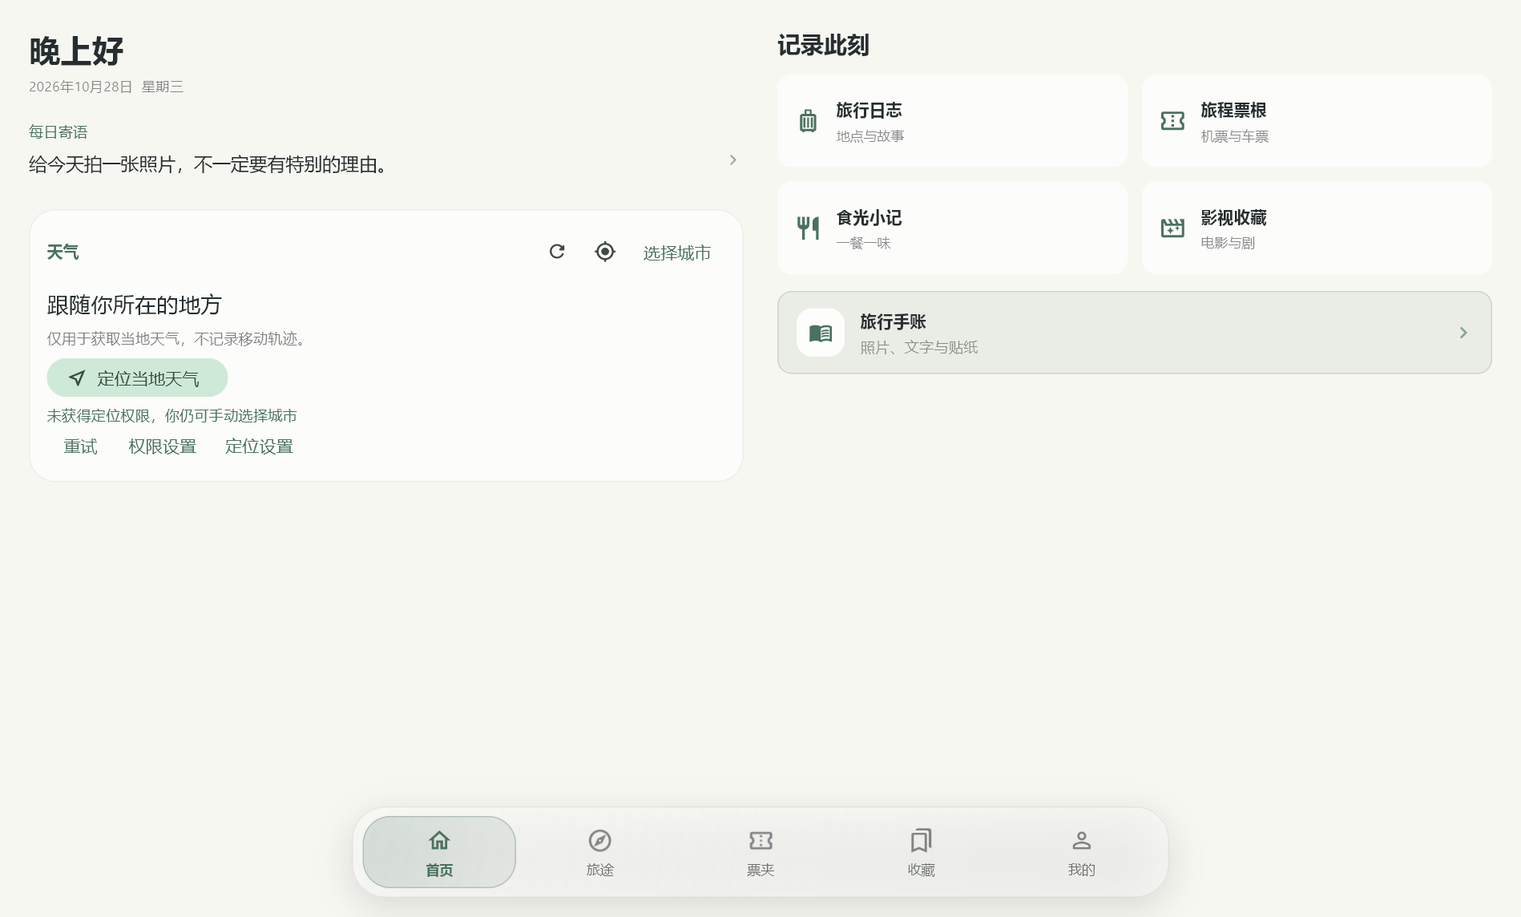
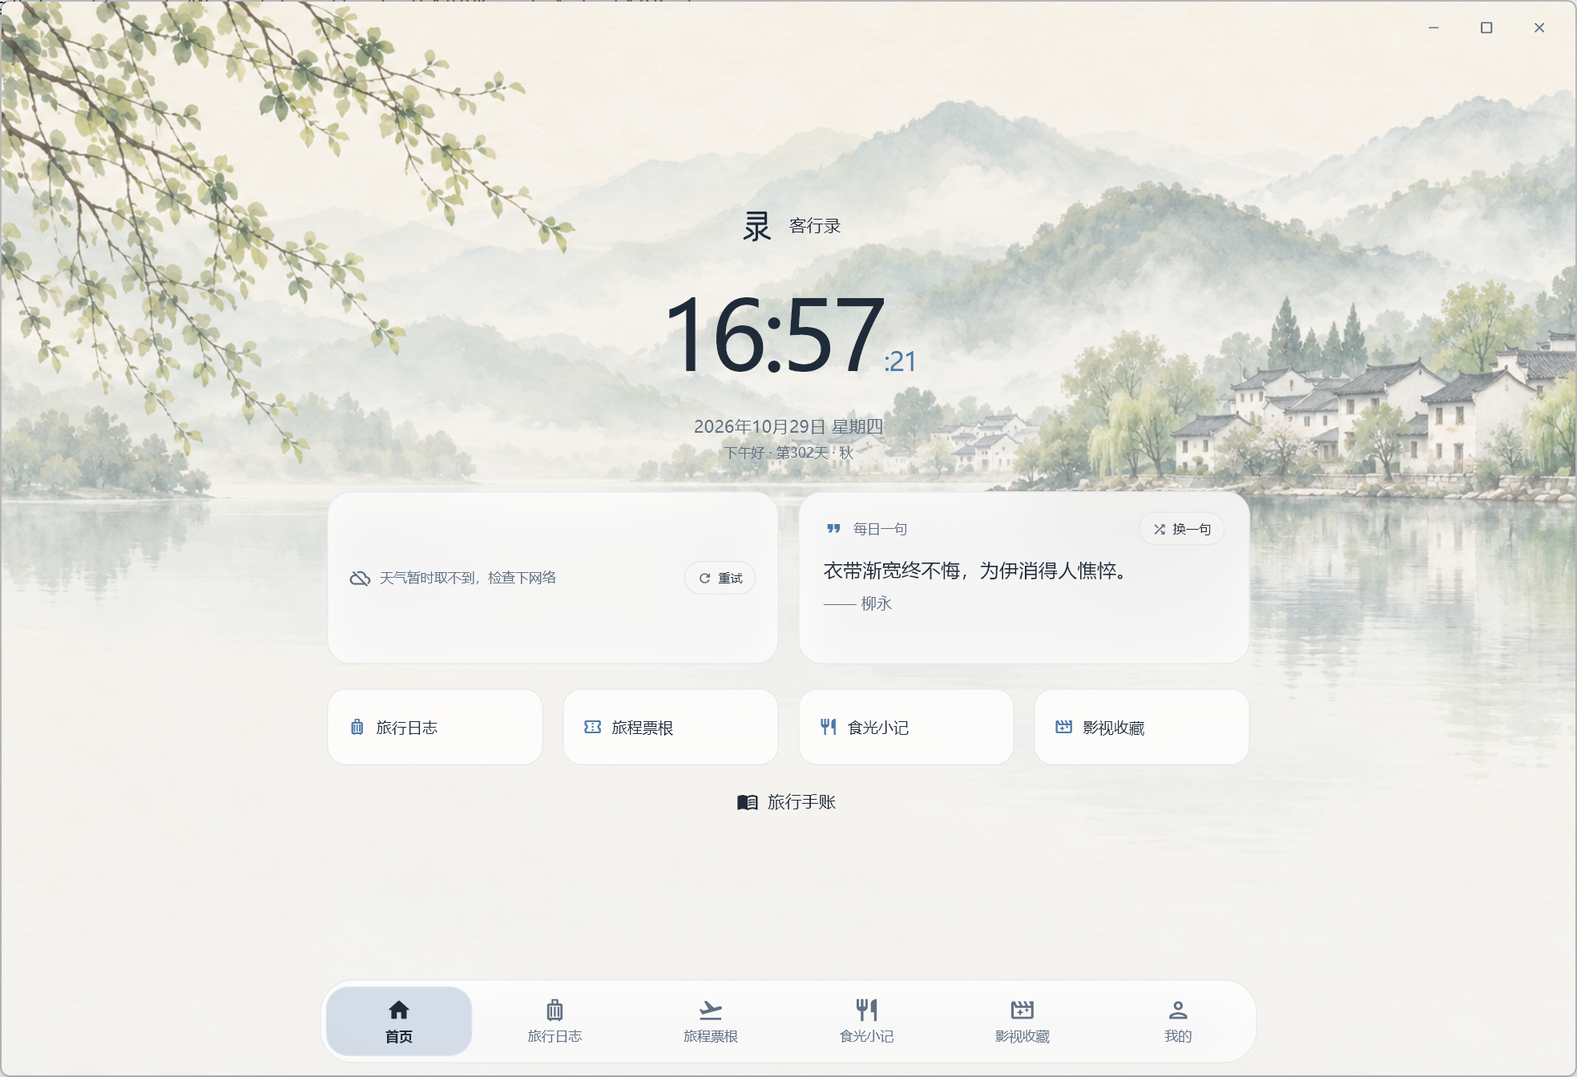
Restore original Windows desktop as the supported release

diff --git a/README.md b/README.md
@@ -1,87 +1,45 @@
-<div align="center">
-<img src="assets/app.png" width="88" alt="Waylore 客行录" />
-
 # Waylore · 客行录
 
-**把旅途与日常，收进自己的故事里。**
+把旅途与日常，收进自己的故事里。
 
-本地优先的旅行与生活记录应用，面向 Windows、Android 手机与安卓平板。记录旅行、收藏票根、排一本手帐，也留下喜欢的一餐与一部电影。
+[English](README.en.md) · [下载安装包](https://github.com/changanhe/Waylore/releases/tag/v1.0.0) · [支持开发](docs/SUPPORT.md)
 
-[English](README.en.md) · [安装与数据说明](docs/UNIFIED-RELEASE.md) · [支持开发](docs/SUPPORT.md)
+## Windows：保留原来的桌面界面
 
-</div>
+Windows 正式版已恢复为原来的 Python / Flet 客户端：山水背景、大时钟、六项底部导航，以及原有旅行日志、票根、食光、影视和手帐布局。后续以这套界面为基础做局部优化，不用手机布局替代桌面设计。版本保持 **1.0.0**。
 
-## 一套界面，陪你在不同设备上记录
+![Windows 原有桌面界面](docs/screenshots/windows-home.png)
 
-新版 Windows、手机与安卓平板复用 `mobile/` 中的 Flutter 界面。公开版本名均为 **1.0.0**；安卓使用内部构建号区分更新，升级请覆盖安装。
+Windows 源码入口是根目录 `main.py`，打包使用 `build.py` 和 `build_installer.py`。`mobile/windows/` 保留为未采用的实验实现，不是当前正式 Windows 版本。
 
-- **旅行与照片**：按地点、日期保存旅途，在离线矢量地图上回看足迹。地图为纪念性示意，不用于实际导航。
-- **机票与铁路票根**：收藏票根、翻看正反面、查看起终点轨迹；铁路票根背面默认显示“人民铁路为人民”。票根不是实际乘车或登机凭证。
-- **旅行手帐**：文字、照片、38款原创图形素材与快捷符号自由排版，12种纸张，平滑、折页、书页、淡入四种翻页效果；横屏编辑使用侧边工具栏。
-- **旅途配乐**：12首内置离线器乐，支持导入不超过50MB的MP3。按每条旅行记录、每本手帐保存选择，打开时自动播放；悬浮唱片展开进度、音量、循环与换曲。
-- **食光与影视**：记录一餐一味、海报、最多三位主演、评分和感悟。新收藏默认5分，在线影视资料仍需核对。
-- **每日寄语与生日**：首页简短寄语按日期轮换；常见中国及国际节日提供问候。生日当天开屏祝福每次打开呈现，首页彩带在同一设备、同一账号当天出现一次。
-- **你的阅读习惯**：主题、个人背景、系统默认字体、书页宋体与霞鹜文楷；保留减少动态效果选项。
-- **可选账号与同步**：本机功能不强制登录。账号和同步按配置提供，个人记录不会因为切换界面语言而翻译。
+## 安卓手机与安卓平板
 
-## 电脑与平板界面
+安卓继续使用 `mobile/` 下的 Flutter 客户端，版本 **1.0.0**、内部构建45。支持旅行与照片、影视与食光、旅行手帐、38款原创图形素材、12种纸张、四种翻页效果、12首内置配乐及MP3导入、悬浮唱片、每日寄语和生日祝福。平板支持双栏、横竖屏和横屏手帐工具栏。
 
-以下为 Windows 本机与安卓平板模拟器中的实际界面，使用测试数据。
+以上安卓功能不表示已经全部移植到 Windows。两个客户端分别保持适合各自设备的布局。
 
-![Windows home](docs/screenshots/windows-home.png)
+![安卓平板](docs/screenshots/tablet-home.png)
 
-![Tablet home](docs/screenshots/tablet-home.png)
+## 下载与数据
 
-![Travel map](docs/screenshots/tablet-travel.png)
+- [Windows 安装包](https://github.com/changanhe/Waylore/releases/download/v1.0.0/Kexinglu-Setup-1.0.0.exe)：Windows 10 / 11 x64，原版桌面界面，无需另外安装Python。
+- [安卓手机／平板安装包](https://github.com/changanhe/Waylore/releases/download/v1.0.0/Kexinglu-Android-1.0.0.apk)：Android 7及以上，覆盖安装即可更新。
+- 发布页附有SHA-256校验文件。此前采用手机布局的Windows便携包已撤下。
 
-![Landscape notebook](docs/screenshots/tablet-notebook-editor.png)
+原版Windows继续使用原有数据目录，通常位于 `%LOCALAPPDATA%/客行录` 或用户自选位置。退出应用后覆盖安装到原安装位置，不要先卸载或清除数据。若在此前实验Windows界面新增过记录，请先在该界面导出备份；实验版 `%LOCALAPPDATA%/Waylore` 中的数据不会自动并入原版，也不会在此次恢复中删除。
 
-## 下载与安装
+更多说明见[安装与恢复说明](docs/UNIFIED-RELEASE.md)及[验证记录](docs/VALIDATION-1.0.0.md)。
 
-安装包通过本仓库的 [**Releases**](https://github.com/changanhe/Waylore/releases) 提供，源代码压缩包不是安装包。
+## 开发
 
-| 设备 | 安装包 | 说明 |
-| --- | --- | --- |
-| Windows 10 1809 / Windows 11 x64 | `Kexinglu-Setup-1.0.0.exe` | 新版统一界面的安装程序；安装到已有目录前先退出客行录。 |
-| Windows x64 便携版 | `Waylore-Windows-1.0.0-portable.zip` | 解压整个文件夹后运行 `Waylore.exe`，不能只复制EXE。 |
-| Android 手机 / 安卓平板 | `Kexinglu-Android-1.0.0.apk` | Android 7及以上；同一包支持横竖屏、平板双栏与分屏。 |
+Windows：安装 `requirements.txt` 中的依赖后运行 `python main.py`；打包流程见 `build.py` 和 `build_installer.py`。安卓：在VS Code或Android Studio打开 `mobile/`，执行 `flutter pub get` 和 `flutter run`。
 
-Windows包只有构建和原生启动验证完成后才会加入正式发布。当前 Windows 构建流程见 `.github/workflows/waylore-windows.yml`。未验证的产物不会标注为已验证版本。Linux、macOS与原生鸿蒙不属于本轮发布；旧工程保留在仓库中作为历史实现。
-
-安装包尚无商业 Windows 代码签名，可用发布页SHA-256核对文件。不要卸载旧版或清除数据来解决升级问题；遇到签名不匹配请先保留记录并联系支持。
-
-## 数据属于你
-
-核心记录保存在本机。天气、城市查询、影视资料和可选账号服务需要网络；登录后编辑资料可能更新云端账号资料，手动同步会上传所选账号的记录与照片。
-
-新版支持包含照片的JSON备份。Windows用户可在「我的 → 数据备份 → 从备份导入」选择旧版 `yingjianlu.db`；只读读取原库、合并到新版，已导入记录会跳过。旧资料目录保留，缺失的原照片会提示。新版Windows数据库默认位于 `%LOCALAPPDATA%\Waylore`，旧版资料不会自动清除。
-
-配乐及MP3目前保存在各设备本机，不随JSON备份、HTML分享或云同步迁移。请另行保存原音频。更详细的联网、权限和删除说明可在「我的 → 关于 → 隐私政策」离线阅读。
-
-## 从源码开发
-
-当前统一客户端在 **`mobile/`**，入口 **`mobile/lib/main.dart`**。仓库根目录的Python/Flet文件是旧桌面实现，不是新版Flutter入口。
-
-```sh
-cd mobile
-flutter pub get
-flutter analyze
-flutter test
-flutter run
-```
-
-已使用 Flutter **3.47.7 / Dart 3.13.5**。Windows编译还需要带C++桌面组件的Visual Studio工具链；安卓编译需要Android SDK和JDK。Windows与Android可分别执行 `flutter build windows --release` 和 `flutter build apk --release`。
-
-发布签名、管理员密钥、私人配置和用户数据库不在仓库中。自己编译的安卓包需要自己的签名，不能覆盖由另一密钥签名的现有安装。云端公开配置与可选服务说明见 [cloud/SETUP.zh-CN.md](cloud/SETUP.zh-CN.md)。
+用户数据库、签名私钥和本机配置不应提交。可选云服务见 [cloud/SETUP.zh-CN.md](cloud/SETUP.zh-CN.md)。资源许可见 [THIRD_PARTY_NOTICES.md](THIRD_PARTY_NOTICES.md)。
 
 ## 一点心意，让故事继续
 
-如果Waylore帮你留住了一段旅程、一餐美味，或一个想再看一眼的瞬间，欢迎给项目一个Star、分享建议，或请开发者喝杯茶。
-
-**赞赏完全自愿，不解锁功能，也不影响正常使用。你的每一份支持，都会成为继续打磨客行录的动力。**
+如果客行录帮你留住了一段旅程、一餐美味，或一个想再看一眼的瞬间，欢迎分享建议，或请开发者喝杯茶。**赞赏完全自愿，不解锁功能，也不影响正常使用。**你的支持会帮助我们继续打磨客行录。
 
 <img src="docs/support/wechat.png" width="280" alt="开发者提供的微信赞赏码" />
 
-联系与支持：**kexinglu@yeah.net**。反馈时请隐去姓名、证件号码、精确行程和登录凭据，勿上传个人数据库、密码或验证码。
-
-资源来源与权利说明见 [THIRD_PARTY_NOTICES.md](THIRD_PARTY_NOTICES.md)。源码公开不改变第三方资源的许可。
+联系与支持：**kexinglu@yeah.net**。

diff --git a/README.en.md b/README.en.md
@@ -1,86 +1,44 @@
-<div align="center">
-<img src="assets/app.png" width="88" alt="Waylore" />
-
 # Waylore · 客行录
 
-**Keep your journeys. Remember your everyday.**
+Keep your journeys. Remember your everyday.
 
-A local-first travel and life journal for Windows, Android phones and Android tablets.
+[简体中文](README.md) · [Downloads](https://github.com/changanhe/Waylore/releases/tag/v1.0.0) · [Support](docs/SUPPORT.md)
 
-[简体中文](README.md) · [Installation and data](docs/UNIFIED-RELEASE.md) · [Support](docs/SUPPORT.md)
-</div>
+## Windows: the original desktop design
 
-## A familiar space across devices
+The Windows release has been restored to the original Python / Flet application: its landscape background, large clock, six-item navigation and existing travel, ticket, food, film and notebook layouts. Future improvements will preserve this desktop design. The public version remains **1.0.0**.
 
-The new Windows, phone and Android tablet clients share the Flutter application in `mobile/`. All public version names remain **1.0.0**. Android uses an increasing internal build number for upgrades.
+![Original Windows interface](docs/screenshots/windows-home.png)
 
-- **Travel journals:** save places, dates, stories and photos; revisit your memories on an offline vector map. Routes are illustrative, not navigation directions.
-- **Travel tickets:** keep flight and rail memories, flip each ticket and view its route. Decorative tickets are not valid boarding or travel documents.
-- **Creative notebooks:** arrange text, photos, 38 original graphic stickers and quick symbols across 12 paper styles. Choose smooth, folding, book or fade transitions. Landscape editing uses a side toolbar.
-- **Music for memories:** 12 offline instrumental tracks plus MP3 import up to50MB. Music is selected per notebook or travel entry and plays when opened. Tap the floating record to reveal seeking, volume, looping and track selection.
-- **Food and film:** preserve meals, posters, up to three leading actors, ratings and personal notes. New collections default to five stars. Online film metadata may need correction.
-- **Daily wishes and birthdays:** a short daily message on the home screen, selected Chinese and international holidays, and birthday greetings. Birthday splash appears on each opening that day; homepage confetti appears once per local day, account and device.
-- **Personal appearance:** themes, cover backgrounds, system fonts, bundled serif and handwriting fonts, and a reduced-motion option.
-- **Optional accounts:** core local recording needs no sign-in. Online account and synchronization features depend on the configured services.
+The maintained Windows entry point is root-level `main.py`, built with `build.py` and `build_installer.py`. The Flutter Windows implementation in `mobile/windows/` is an unused experiment, not the current Windows release.
 
-## Desktop and tablet preview
+## Android phones and tablets
 
-Actual Windows and Android tablet emulator captures using isolated test data.
+Android continues to use the Flutter application in `mobile/`, public version **1.0.0**, internal build45. It includes travel journals, photos, collections, creative notebooks, 38 graphic stickers, 12 paper styles, four page transitions, 12 built-in music tracks and MP3 import, a floating record player, daily messages and birthday greetings. Tablet layouts support wide screens and landscape editing.
 
-![Windows home](docs/screenshots/windows-home.png)
+These Android features are not a claim of full Windows feature parity. Each client retains its own device-appropriate layout.
 
-![Tablet home](docs/screenshots/tablet-home.png)
+![Android tablet](docs/screenshots/tablet-home.png)
 
-![Travel map](docs/screenshots/tablet-travel.png)
+## Downloads and data
 
-![Landscape notebook](docs/screenshots/tablet-notebook-editor.png)
+- [Windows installer](https://github.com/changanhe/Waylore/releases/download/v1.0.0/Kexinglu-Setup-1.0.0.exe): Windows10 /11 x64, original desktop design, bundled Python runtime.
+- [Android phone/tablet APK](https://github.com/changanhe/Waylore/releases/download/v1.0.0/Kexinglu-Android-1.0.0.apk): Android7 and newer.
 
-## Downloads
+SHA-256 checksums are attached to the release. The experimental Flutter Windows portable package has been withdrawn.
 
-Use the repository's [**Releases**](https://github.com/changanhe/Waylore/releases) section. Source archives are not installers.
+Exit the application and install over the previous location without uninstalling or clearing data. The original Windows client keeps its existing data location, normally `%LOCALAPPDATA%/客行录` or a user-selected folder. Export any new records created in the experimental Windows app before switching back. Its `%LOCALAPPDATA%/Waylore` database is preserved, but is not automatically merged into the original desktop database.
 
-| Platform | File |
-| --- | --- |
-| Windows 10 1809 / Windows 11 x64 | `Kexinglu-Setup-1.0.0.exe` |
-| Windows x64 portable | `Waylore-Windows-1.0.0-portable.zip` |
-| Android 7+ phones and tablets | `Kexinglu-Android-1.0.0.apk` |
-
-A single APK adapts to phone, tablet, landscape and split-screen windows. Keep the entire Windows portable folder together. Windows packages are added to the formal release only after successful build and native startup checks; see `.github/workflows/waylore-windows.yml`.
-
-Linux, macOS and native HarmonyOS are outside this release. Historical implementations remain in the repository. Windows packages do not have a commercial code-signing certificate; use the release SHA-256 checksums to verify file integrity.
-
-## Your records stay yours
-
-Records are local by default. Weather, city search, film metadata and optional account services use the network. Editing a signed-in profile may update account metadata; manual synchronization transfers records and photos to that account's cloud space.
-
-The new app exports JSON backups including photos. The Windows import dialog also accepts the old desktop `yingjianlu.db`: it reads the original without modifying it, skips already imported records and reports missing photos. New Windows database files default to `%LOCALAPPDATA%\Waylore`. Keep your original desktop data folder and back up before upgrading.
-
-Music and imported MP3 files remain device-local and are not included in JSON backups, shared notebook HTML or cloud synchronization. The bundled privacy policy can be read offline in **My → About → Privacy policy**. Some advanced notebook text and the bundled place database remain in Chinese; personal records are not automatically translated.
+See [installation guidance](docs/UNIFIED-RELEASE.md) and [validation](docs/VALIDATION-1.0.0.md).
 
 ## Development
 
-The maintained shared client is **`mobile/`**, with entry point **`mobile/lib/main.dart`**. Root-level Python/Flet files belong to the previous desktop implementation.
+For Windows, install `requirements.txt` and run `python main.py`. For Android, open `mobile/` and run `flutter pub get` followed by `flutter run`. Never commit personal databases or signing keys. See [third-party notices](THIRD_PARTY_NOTICES.md) for resource licenses.
 
-```sh
-cd mobile
-flutter pub get
-flutter analyze
-flutter test
-flutter run
-```
+## Support
 
-The current toolchain is Flutter **3.47.7 / Dart 3.13.5**. Windows builds require Visual Studio C++ desktop tools. Android builds require the Android SDK and a compatible JDK. Build with `flutter build windows --release` or `flutter build apk --release`.
+If Waylore helped you keep a journey or a moment worth returning to, consider sharing feedback or buying the developer a cup of tea. **Donations are entirely optional and do not unlock features or affect access.**
 
-Signing keys, administrator credentials, personal databases and local settings are excluded. Android packages signed by a different key cannot replace an existing installation. Check [cloud setup](cloud/SETUP.zh-CN.md) for optional services and public client configuration.
+<img src="docs/support/wechat.png" width="280" alt="Developer-provided support QR code" />
 
-## Help the next story happen
-
-If Waylore helped you keep a journey, a favorite meal or a moment worth returning to, consider leaving a star, sharing feedback or buying the developer a cup of tea.
-
-**Contributions are entirely optional. They do not unlock features or affect access. Thank you for helping this independent project grow.**
-
-<img src="docs/support/wechat.png" width="280" alt="Developer-provided WeChat appreciation code" />
-
-Support: **kexinglu@yeah.net**. Please redact personal information and never post databases, passwords, verification codes or API keys in issues.
-
-See [THIRD_PARTY_NOTICES.md](THIRD_PARTY_NOTICES.md) for resource attribution and licensing.
+Contact: **kexinglu@yeah.net**.

diff --git a/docs/UNIFIED-RELEASE.md b/docs/UNIFIED-RELEASE.md
@@ -1,32 +1,11 @@
-# Waylore 客行录 1.0.0 · Windows 与安卓平板
+# Waylore 1.0.0 安装与恢复说明
 
-本轮统一客户端位于 `mobile/`，入口为 `mobile/lib/main.dart`。不要运行根目录 `main.py` 来预览新版，它属于旧桌面实现。
+2026年10月29日更正：Windows恢复原有桌面设计，安卓手机和平板继续使用现有Flutter版本。
 
-## 安装
+- Windows：退出应用后，运行发布页的 `Kexinglu-Setup-1.0.0.exe`，覆盖安装到原安装目录。无需卸载，不要清空数据。
+- 原Windows数据目录通常为 `%LOCALAPPDATA%/客行录`，也可能是用户在设置中选择的位置。该版本继续读取原数据库。
+- 如已在实验Flutter Windows版新增记录，请先导出备份。其 `%LOCALAPPDATA%/Waylore` 数据仍保留，不会自动合并到原桌面版。
+- 安卓手机与平板：继续使用 `Kexinglu-Android-1.0.0.apk`，公开版本1.0.0、内部构建45，保持原签名，覆盖安装。
+- 手机布局的Windows便携包已撤下。根目录 `main.py` 为正式Windows入口，`mobile/lib/main.dart` 为安卓入口。
 
-- Windows：退出旧应用后运行 `Kexinglu-Setup-1.0.0.exe`。新版沿用旧安装标识，并兼容原快捷方式使用的「客行录.exe」名称。原始记录目录不删除。
-- 便携版：完整解压 `Waylore-Windows-1.0.0-portable.zip`，运行 `Waylore.exe`。
-- Android手机与平板：同一 `Kexinglu-Android-1.0.0.apk`，公开版本1.0.0、内部构建45。请覆盖安装，勿先卸载。
-- 安卓平板：900dp以上使用首页双栏、旅途与票夹记录/地图并排布局，支持横竖屏与分屏。宽度变小时恢复纵向布局。
-- 横屏手帐：工具栏移至侧边，纸页上下浏览；翻页有平滑、折页、书页和淡入四种效果。
-
-Windows 安装程序会注册浏览器登录回调；需要第三方网页登录时请使用安装版。便携版适合本机记录，未注册回调时请使用邮箱密码登录。第三方登录仍取决于云端配置与提供商服务。
-
-## 从旧Windows版迁移
-
-1. 保留旧版整个数据文件夹及配置，不要只备份一个EXE。
-2. 打开新版「我的 → 数据备份 → 从备份导入」，选择旧数据目录中的 `yingjianlu.db`。
-3. 检查发现的记录数量与缺失图片数量，确认后导入。
-4. 原数据库只读打开，不会被改写。重复导入同一路径会跳过已有ID，不覆盖你在新版的编辑。
-5. 本地照片会复制到新版备份恢复目录。旧版内嵌手帐图片、文字和基本排版会转换；缺失的原照片无法凭空恢复，复杂旧版专有样式可能以对应的基础纸张显示。原库请继续保留。
-6. 新版Windows数据库默认位于 `%LOCALAPPDATA%\Waylore`；旧版通常在 `%LOCALAPPDATA%\客行录` 或用户自选目录。新版照片与音乐由系统文档目录中的应用文件管理。不要在应用运行时直接编辑数据库。
-
-## 版本与范围
-
-Windows、安卓手机、安卓平板对外版本名均为1.0.0。当前没有交付Linux、macOS或原生鸿蒙安装包。Windows的音乐播放与数据库使用桌面原生插件；核心界面与手机共用代码。鼠标支持拖动、滚动与点击，具体触控效果仍取决于设备。
-
-GitHub仅发布源码、说明、演示截图和检查通过的安装包，不包含用户记录、私钥、密码或管理员服务密钥。赞赏完全自愿，不影响功能。
-
-## English
-
-Open `mobile/` for the current Flutter client. Keep the complete old desktop data folder. The Windows backup-import dialog accepts the old `yingjianlu.db` in read-only mode, copies available media and skips previously imported records. Back up before upgrading. Phone and Android tablet use the same signed APK; do not uninstall the old application first. Native HarmonyOS, macOS and Linux packages are not included in this release.
+Windows has been restored to its original desktop design. Exit the app and install over its existing installation directory. Do not uninstall or delete your data. Records created in the experimental Flutter Windows application remain in its separate data folder and are not automatically merged. Android packages are unchanged.

diff --git a/docs/VALIDATION-1.0.0.md b/docs/VALIDATION-1.0.0.md
@@ -1,3 +1,13 @@
+# 当前 Windows 恢复验证（2026年10月29日）
+
[1 lines of base64/hex data omitted]
+
+原桌面程序构建清单校验、隔离临时数据下的离线启动、内置运行组件、数据库初始化及任务栏身份检查均通过。已检查原界面的实际截图。未更改用户的实际数据。
+
+以下为此前安卓和实验Windows验证的历史记录；其中Flutter Windows已撤回，不是当前正式Windows版本。
+
+---
+
 # Waylore 1.0.0 发布检查
 
 日期：2026年10月28日。当前客户端在 `mobile/`；Windows、安卓手机及安卓平板对外版本均为1.0.0。

diff --git a/mobile/README.md b/mobile/README.md
@@ -1,6 +1,8 @@
+> 当前正式 Windows 版使用根目录的 Python / Flet 实现。下文关于 Flutter Windows 的内容仅属于未采用的实验实现；本目录当前主要维护安卓手机和平板。
+
 # Waylore · 客行录 1.0.0
 
-这里是当前 Windows、Android 手机和安卓平板共用的 Flutter 源码。请在 VS Code 或 Android Studio 中打开本目录，运行 `lib/main.dart`。项目根目录的 Python 程序是旧版桌面客户端。
+这里是 Android 手机与安卓平板的 Flutter 源码。请在 VS Code 或 Android Studio 中打开本目录，运行 `lib/main.dart`。项目根目录的 Python 程序是当前正式桌面客户端。
 
 ## 预览与构建
 
